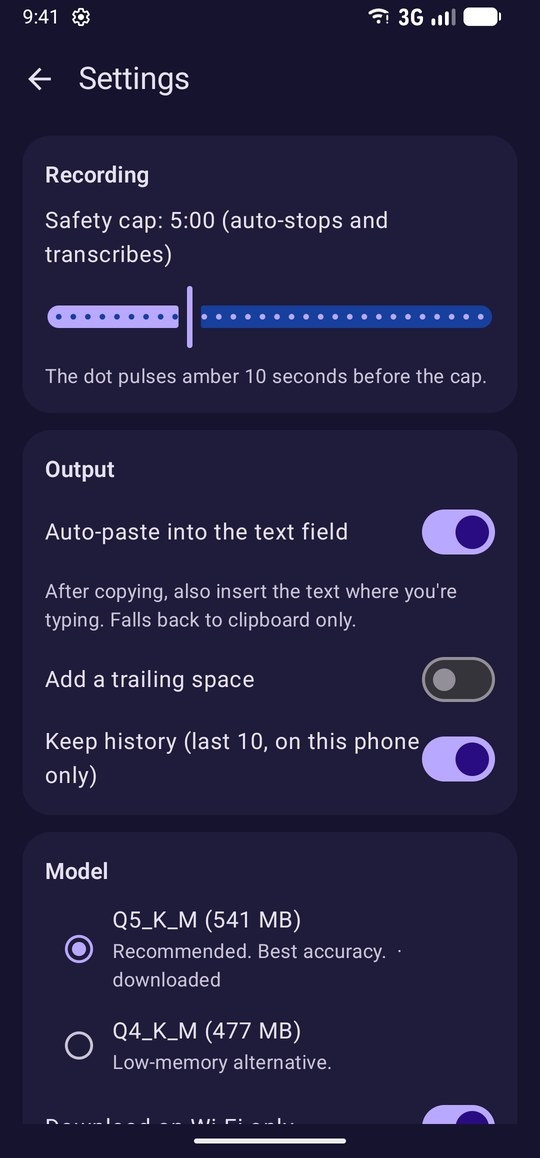
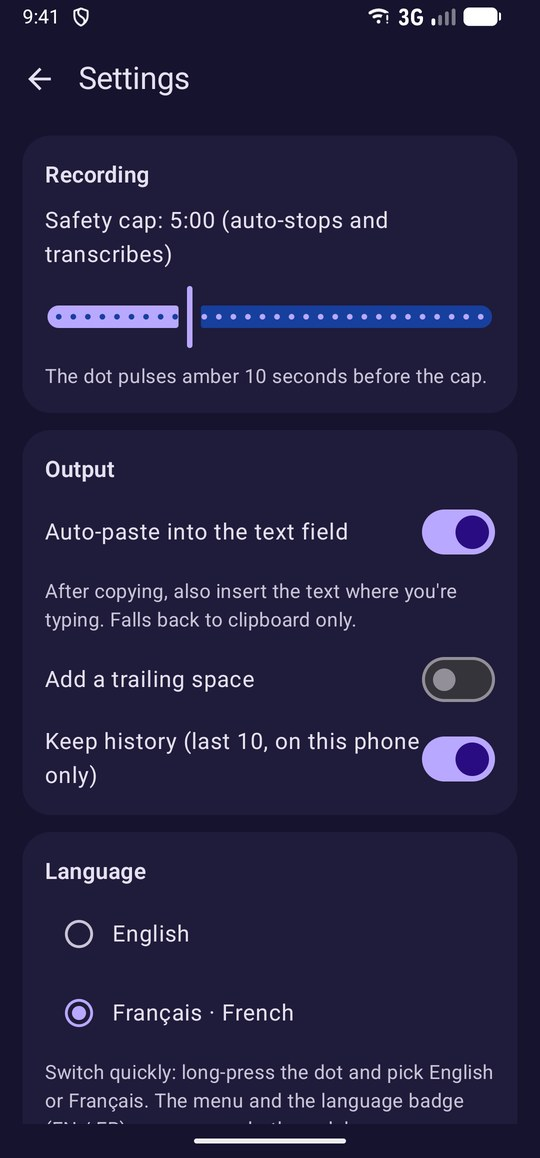
README: English plus about 100 other languages; language screenshots

diff --git a/README.md b/README.md
@@ -7,7 +7,7 @@
 <p align="center">
   <b>Offline, on-device voice typing for any Android keyboard.</b><br>
   Tap a floating dot, speak, and your words land on the clipboard (or straight into the text field).<br>
-  English, plus a second language of your choice from Whisper's ~100: Urdu (اردو) by default, or French, Chinese, Arabic, Hindi… Powered by NVIDIA Parakeet and OpenAI Whisper running locally on the Snapdragon NPU, GPU or CPU. No cloud, no account.
+  English, plus your choice of about 100 other languages. Powered by NVIDIA Parakeet and OpenAI Whisper running locally on the Snapdragon NPU, GPU or CPU. No cloud, no account.
 </p>
 
 <p align="center">
@@ -25,8 +25,11 @@
 <td align="center" valign="top"><img src="docs/screenshots/recording.jpg" width="240" alt="Tap to talk"><br><sub><b>Tap to talk</b></sub><br><sub>&#8199;&#8199;&#8199;&#8199;&#8199;&#8199;&#8199;&#8199;&#8199;&#8199;&#8199;&#8199;&#8199;&#8199;&#8199;&#8199;&#8199;&#8199;&#8199;&#8199;&#8199;&#8199;&#8199;&#8199;&#8199;&#8199;&#8199;&#8199;&#8199;&#8199;&#8199;&#8199;&#8199;&#8199;&#8199;&#8199;</sub></td>
 <td align="center" valign="top"><img src="docs/screenshots/transcribing.jpg" width="240" alt="Transcribed on the phone"><br><sub><b>Transcribed on the phone</b></sub><br><sub>&#8199;&#8199;&#8199;&#8199;&#8199;&#8199;&#8199;&#8199;&#8199;&#8199;&#8199;&#8199;&#8199;&#8199;&#8199;&#8199;&#8199;&#8199;&#8199;&#8199;&#8199;&#8199;&#8199;&#8199;&#8199;&#8199;&#8199;&#8199;&#8199;&#8199;&#8199;&#8199;&#8199;&#8199;&#8199;&#8199;</sub></td>
 <td align="center" valign="top"><img src="docs/screenshots/pasted.jpg" width="240" alt="Pasted into the text field"><br><sub><b>Pasted into the text field</b></sub><br><sub>&#8199;&#8199;&#8199;&#8199;&#8199;&#8199;&#8199;&#8199;&#8199;&#8199;&#8199;&#8199;&#8199;&#8199;&#8199;&#8199;&#8199;&#8199;&#8199;&#8199;&#8199;&#8199;&#8199;&#8199;&#8199;&#8199;&#8199;&#8199;&#8199;&#8199;&#8199;&#8199;&#8199;&#8199;&#8199;&#8199;</sub></td>
+<td align="center" valign="top"><img src="docs/screenshots/language-menu.jpg" width="240" alt="English or another language, one long-press"><br><sub><b>English or another language, one long-press</b></sub><br><sub>&#8199;&#8199;&#8199;&#8199;&#8199;&#8199;&#8199;&#8199;&#8199;&#8199;&#8199;&#8199;&#8199;&#8199;&#8199;&#8199;&#8199;&#8199;&#8199;&#8199;&#8199;&#8199;&#8199;&#8199;&#8199;&#8199;&#8199;&#8199;&#8199;&#8199;&#8199;&#8199;&#8199;&#8199;&#8199;&#8199;</sub></td>
+<td align="center" valign="top"><img src="docs/screenshots/language-picker.jpg" width="240" alt="About 100 languages to choose from"><br><sub><b>About 100 languages to choose from</b></sub><br><sub>&#8199;&#8199;&#8199;&#8199;&#8199;&#8199;&#8199;&#8199;&#8199;&#8199;&#8199;&#8199;&#8199;&#8199;&#8199;&#8199;&#8199;&#8199;&#8199;&#8199;&#8199;&#8199;&#8199;&#8199;&#8199;&#8199;&#8199;&#8199;&#8199;&#8199;&#8199;&#8199;&#8199;&#8199;&#8199;&#8199;</sub></td>
 <td align="center" valign="top"><img src="docs/screenshots/s23-ultra-benchmark.jpg" width="240" alt="Benchmark on a Galaxy S23 Ultra"><br><sub><b>Benchmark on a Galaxy S23 Ultra</b></sub><br><sub>&#8199;&#8199;&#8199;&#8199;&#8199;&#8199;&#8199;&#8199;&#8199;&#8199;&#8199;&#8199;&#8199;&#8199;&#8199;&#8199;&#8199;&#8199;&#8199;&#8199;&#8199;&#8199;&#8199;&#8199;&#8199;&#8199;&#8199;&#8199;&#8199;&#8199;&#8199;&#8199;&#8199;&#8199;&#8199;&#8199;</sub></td>
 <td align="center" valign="top"><img src="docs/screenshots/settings.jpg" width="240" alt="Settings"><br><sub><b>Settings</b></sub><br><sub>&#8199;&#8199;&#8199;&#8199;&#8199;&#8199;&#8199;&#8199;&#8199;&#8199;&#8199;&#8199;&#8199;&#8199;&#8199;&#8199;&#8199;&#8199;&#8199;&#8199;&#8199;&#8199;&#8199;&#8199;&#8199;&#8199;&#8199;&#8199;&#8199;&#8199;&#8199;&#8199;&#8199;&#8199;&#8199;&#8199;</sub></td>
+<td align="center" valign="top"><img src="docs/screenshots/settings-language.jpg" width="240" alt="Language settings"><br><sub><b>Language settings</b></sub><br><sub>&#8199;&#8199;&#8199;&#8199;&#8199;&#8199;&#8199;&#8199;&#8199;&#8199;&#8199;&#8199;&#8199;&#8199;&#8199;&#8199;&#8199;&#8199;&#8199;&#8199;&#8199;&#8199;&#8199;&#8199;&#8199;&#8199;&#8199;&#8199;&#8199;&#8199;&#8199;&#8199;&#8199;&#8199;&#8199;&#8199;</sub></td>
 <td align="center" valign="top"><img src="docs/screenshots/setup-privacy.jpg" width="240" alt="Guided setup, privacy first"><br><sub><b>Guided setup, privacy first</b></sub><br><sub>&#8199;&#8199;&#8199;&#8199;&#8199;&#8199;&#8199;&#8199;&#8199;&#8199;&#8199;&#8199;&#8199;&#8199;&#8199;&#8199;&#8199;&#8199;&#8199;&#8199;&#8199;&#8199;&#8199;&#8199;&#8199;&#8199;&#8199;&#8199;&#8199;&#8199;&#8199;&#8199;&#8199;&#8199;&#8199;&#8199;</sub></td>
 <td align="center" valign="top"><img src="docs/screenshots/setup-dot.jpg" width="240" alt="What the dot service can see"><br><sub><b>What the dot service can see</b></sub><br><sub>&#8199;&#8199;&#8199;&#8199;&#8199;&#8199;&#8199;&#8199;&#8199;&#8199;&#8199;&#8199;&#8199;&#8199;&#8199;&#8199;&#8199;&#8199;&#8199;&#8199;&#8199;&#8199;&#8199;&#8199;&#8199;&#8199;&#8199;&#8199;&#8199;&#8199;&#8199;&#8199;&#8199;&#8199;&#8199;&#8199;</sub></td>
 <td align="center" valign="top"><img src="docs/screenshots/setup-model.jpg" width="240" alt="Verified model download"><br><sub><b>Verified model download</b></sub><br><sub>&#8199;&#8199;&#8199;&#8199;&#8199;&#8199;&#8199;&#8199;&#8199;&#8199;&#8199;&#8199;&#8199;&#8199;&#8199;&#8199;&#8199;&#8199;&#8199;&#8199;&#8199;&#8199;&#8199;&#8199;&#8199;&#8199;&#8199;&#8199;&#8199;&#8199;&#8199;&#8199;&#8199;&#8199;&#8199;&#8199;</sub></td>
@@ -37,16 +40,16 @@
 
 ## Why
 
-Built-in voice typing on most phones either sends audio to a server or is tied to one keyboard. VoiceX works **next to whatever keyboard you already use** (Samsung Keyboard, Gboard, SwiftKey…) and transcribes **entirely on the phone** with [NVIDIA Parakeet Unified EN 0.6B](https://huggingface.co/handy-computer/parakeet-unified-en-0.6b-gguf) for English and [OpenAI Whisper large-v3-turbo](https://huggingface.co/ggerganov/whisper.cpp) for Urdu, both via [transcribe.cpp](https://github.com/handy-computer/transcribe.cpp).
+Built-in voice typing on most phones either sends audio to a server or is tied to one keyboard. VoiceX works **next to whatever keyboard you already use** (Samsung Keyboard, Gboard, SwiftKey…) and transcribes **entirely on the phone** with [NVIDIA Parakeet Unified EN 0.6B](https://huggingface.co/handy-computer/parakeet-unified-en-0.6b-gguf) for English and [OpenAI Whisper large-v3-turbo](https://huggingface.co/ggerganov/whisper.cpp) for about 100 other languages, both via [transcribe.cpp](https://github.com/handy-computer/transcribe.cpp).
 
 ## Features
 
 - **Floating dictation dot.** Appears only while a soft keyboard is open, just above the keyboard's top edge, and disappears with it. Drag it anywhere; its position is remembered separately for portrait and landscape.
 - **One tap to talk.** Tap to record (red pulse plus elapsed time), tap again to transcribe. The text is copied to the clipboard, and with **auto-paste** inserted at the cursor of the field you're typing in.
-- **Fully offline speech recognition.** Punctuated, capitalised English, and your second language in its own script. Audio and text never leave the device. The internet is used once per language, to download its model.
-- **English ⇄ a second language in one long-press.** The second language is transcribed by OpenAI Whisper and is **Urdu** by default; Settings → Language → **Second language** switches it to any of the 99 other languages Whisper knows (Français, 中文, العربية, हिन्दी…), from a searchable list. Long-press the dot and pick **English** or that language. A small badge on the dot shows the current one (EN, UR, FR, ZH…). The menu and badge only appear once the Whisper model is downloaded; until then long-press simply hides the dot. Each model gets its own benchmark, so Whisper runs on whichever engine is fastest and correct for it. Urdu is slower than English: on the S23 Ultra, 11.5 s of Urdu speech is transcribed in about 14 s (see [Second language: accuracy and speed](#second-language-accuracy-and-speed)).
+- **Fully offline speech recognition.** Punctuated, capitalised English, and other languages in their own script. Audio and text never leave the device. The internet is used once per language, to download its model.
+- **English plus about 100 other languages.** English uses Parakeet. Other languages use OpenAI Whisper, which transcribes about 100 of them: pick yours in Settings → Language → **Second language** from a searchable list (Français, Español, Deutsch, 中文, 日本語, العربية, हिन्दी…). Long-press the dot to switch between English and that language; a small badge on the dot shows the current one (EN, FR, ZH…). The menu and badge appear once the Whisper model is downloaded; until then long-press simply hides the dot. Whisper is slower than Parakeet: on the S23 Ultra, 11.5 s of speech is transcribed in about 14 s (see [Other languages: accuracy and speed](#other-languages-accuracy-and-speed)).
 - **Hardware acceleration with automatic selection.** A built-in benchmark tries every engine the phone has (Hexagon NPU, Adreno GPU via OpenCL and Vulkan, CPU), checks each transcript against the CPU's, and uses the fastest correct one. It also checks each accelerator on long audio and routes recordings to an engine verified for that length.
-- **Never fails silently.** A backend that won't load or errors out falls back to CPU. An accelerator that returns an empty result for real speech is redone on the CPU automatically. An accelerator that crashes the app outright (a native abort can't be caught) is remembered after the restart and never used with that model again; Whisper is never tried on the Hexagon NPU, where it crashes.
+- **Never fails silently.** A backend that won't load or errors out falls back to CPU. An accelerator that returns an empty result for real speech is redone on the CPU automatically. An accelerator that crashes the app outright (a native abort can't be caught) is remembered after the restart and never used with that model again (Whisper, for example, is never tried on the Hexagon NPU, where it crashes).
 - **Thoughtful details.** Long-press to cancel, "Nothing heard" when you didn't speak (your clipboard stays untouched), a safety cap (30 s to 15 min, default 5 min, with a warning pulse before it), stops cleanly for phone calls and audio-focus loss, and silence trimming before inference.
 - **Model download done right.** Resumable (HTTP range requests), Wi-Fi-only by default, and SHA-256 verified before use. Q5_K_M (541 MB, best accuracy) or Q4_K_M (477 MB, less memory).
 - **Settings.** Safety cap, auto-paste (+ trailing space), model, engine override and re-benchmark, CPU threads (pinned to the performance cores), keep-loaded vs. load-on-keyboard-open, dot size/opacity, haptics, local history (last 10), and a **Test transcription** screen with timing readout.
@@ -72,17 +75,15 @@ An earlier run on the same phone (before the long-audio check existed) measured 
   <img src="docs/screenshots/s23-ultra-benchmark.jpg" width="300" alt="Benchmark results on a Galaxy S23 Ultra">
 </p>
 
-### Second language: accuracy and speed
+### Other languages: accuracy and speed
 
-The second language uses the stock OpenAI Whisper large-v3-turbo (q5_0, 574 MB, in whisper.cpp's format), told which language to expect (no auto-detection, which often mistakes spoken Urdu for Hindi). One model covers every language. Accuracy varies a lot by language: it is strongest for widely spoken ones.
+Other languages use the stock OpenAI Whisper large-v3-turbo (q5_0, 574 MB, in whisper.cpp's format). One model covers every language, and VoiceX tells it which language you picked rather than letting it guess, which is more reliable on short phrases. Accuracy varies a lot by language: it is strongest for widely spoken ones such as French, Spanish, German, Chinese and Japanese, and weaker for languages with less training data. Accuracy does not depend on the device.
 
-**Urdu (default).** On six sentences from the Google FLEURS Urdu test set, it scored **22 % word error rate and 7.4 % character error rate**: most errors are spelling variants (چھے اگوا for چھے اغوا) rather than wrong words. Accuracy does not depend on the device.
+Spot checks on the PC with sentences from the Google FLEURS test set: French came out essentially word for word, and Mandarin was right apart from one homophone (钙甲 for 钙、钾). Whisper sometimes writes Chinese in Traditional characters; VoiceX gives it a short Simplified-Chinese starting prompt, which kept every test sentence in Simplified characters.
 
-Whisper always encodes a 30-second window, padding short clips with silence, and the encoder is most of the work. VoiceX encodes only the recording plus 2 seconds instead. On the same six sentences that cost 22.4 % WER against 21.9 % for the full window, and was 2.5 times faster on the PC; shorter recordings gain more.
+Whisper always encodes a 30-second window, padding short clips with silence, and the encoder is most of the work. VoiceX encodes only the recording plus 2 seconds instead. On six FLEURS test sentences that moved the word error rate from 21.9 % to 22.4 % and was 2.5 times faster on the PC; shorter recordings gain more.
 
-**French and Chinese.** Spot-checked on the PC with three FLEURS sentences each. French came out essentially word for word. Mandarin was right apart from one homophone (钙甲 for 钙、钾). Whisper sometimes writes Chinese in Traditional characters; VoiceX gives it a short Simplified-Chinese starting prompt, which kept all three sentences Simplified.
-
-**Speed.** Whisper runs on the CPU. On the S23 Ultra the NPU crashes with this model, OpenCL returns wrong text and Vulkan reports an error, so the benchmark picks the CPU. Speed is about the same for every language. With the full 30-second window a 3-second Urdu recording took 34 to 45 seconds there. With the shorter window, 11.5 seconds of Urdu speech took **14.0 seconds** (encoder 13.2 s, decoder 0.8 s, 4 CPU threads); time grows with the length of the recording.
+**Speed on the S23 Ultra.** Whisper runs on the CPU: with this model the NPU crashes, OpenCL returns wrong text and Vulkan reports an error, so the benchmark picks the CPU. With the full 30-second window, a 3-second recording took 34 to 45 seconds. With the shorter window, 11.5 seconds of speech took **14.0 seconds** (encoder 13.2 s, decoder 0.8 s, 4 CPU threads). Speed is about the same for every language and grows with the length of the recording.
 
 ## Install
 
@@ -94,9 +95,9 @@ Whisper always encodes a 30-second window, padding short clips with silence, and
    3. download the model (541 MB, Wi-Fi);
    4. run the benchmark (about a minute).
 4. Open any app, tap a text field, and tap the dot.
-5. Optional, a second language: Settings → **Language** → download the Whisper model (574 MB). It is set to Urdu; change it under **Second language** if you speak something else. Then long-press the dot and pick it.
+5. Optional, other languages: Settings → **Language** → download the Whisper model (574 MB) and choose your language under **Second language**. Then long-press the dot to switch between English and it.
 
-**Requirements:** an arm64 Android 12+ phone with about 1.2 GB free (about 1.8 GB with the second language). NPU and GPU acceleration need a Snapdragon; other phones use the CPU.
+**Requirements:** an arm64 Android 12+ phone with about 1.2 GB free (about 1.8 GB with other languages). NPU and GPU acceleration need a Snapdragon; other phones use the CPU.
 
 ## Using the dot
 
@@ -112,9 +113,17 @@ Whisper always encodes a 30-second window, padding short clips with silence, and
 | Tap (grey) | Start recording |
 | Tap (red) | Stop and transcribe → **Copied** / **Pasted** |
 | Long-press while recording | Cancel and discard the audio |
-| Long-press when idle | With both language models downloaded: menu with **English** / your second language (**اردو Urdu** by default) / Hide until the keyboard opens again. With one model: hide until the keyboard opens again |
+| Long-press when idle | With both language models downloaded: menu with **English** / your other language / Hide until the keyboard opens again. With one model: hide until the keyboard opens again |
 | Drag | Move it (remembered) |
 | Orange dot | Something needs attention (no model, mic denied…): tap it to fix |
+
+### Switching languages
+
+<p align="center">
+  <img src="docs/screenshots/language-menu.jpg" width="200" alt="Long-press menu: English or another language">
+  <img src="docs/screenshots/settings-language.jpg" width="200" alt="Language settings">
+  <img src="docs/screenshots/language-picker.jpg" width="200" alt="Choosing from about 100 languages">
+</p>
 
 ## Privacy
 
@@ -160,7 +169,7 @@ PATH=$ANDROID_HOME/cmake/4.1.2/bin:$PATH ./gradlew assembleRelease
 # -> dist/VoiceX-1.2.0-release.apk
 ```
 
-The build applies the patches in `patches/` to the transcribe.cpp submodule (currently one: the short Whisper encoder window used for Urdu). It skips any that are already applied.
+The build applies the patches in `patches/` to the transcribe.cpp submodule (currently one: the short Whisper encoder window). It skips any that are already applied.
 
 Each accelerator is enabled automatically when its SDK is present, and can be switched off with `-Pvoicex.hexagon=false`, `-Pvoicex.opencl=false` or `-Pvoicex.vulkan=false`.
 
@@ -195,5 +204,5 @@ BUILD_NOTES.md               toolchain, CMake changes for Android, backend resul
 - [transcribe.cpp](https://github.com/handy-computer/transcribe.cpp) and [ggml](https://github.com/ggml-org/ggml), MIT
 - [NVIDIA Parakeet Unified EN 0.6B](https://huggingface.co/handy-computer/parakeet-unified-en-0.6b-gguf), GGUF by handy-computer. The model has its own license; see the model card.
 - [OpenAI Whisper](https://github.com/openai/whisper) large-v3-turbo (MIT), whisper.cpp conversion from [ggerganov/whisper.cpp](https://huggingface.co/ggerganov/whisper.cpp)
-- Whisper benchmark clips (Urdu): two sentences from [Google FLEURS](https://huggingface.co/datasets/google/fleurs) (CC BY 4.0), test split
+- Whisper benchmark clips: two sentences from [Google FLEURS](https://huggingface.co/datasets/google/fleurs) (CC BY 4.0), test split
 - Benchmark clip: the opening of the JFK inaugural address (US government work, public domain), from transcribe.cpp's samples
